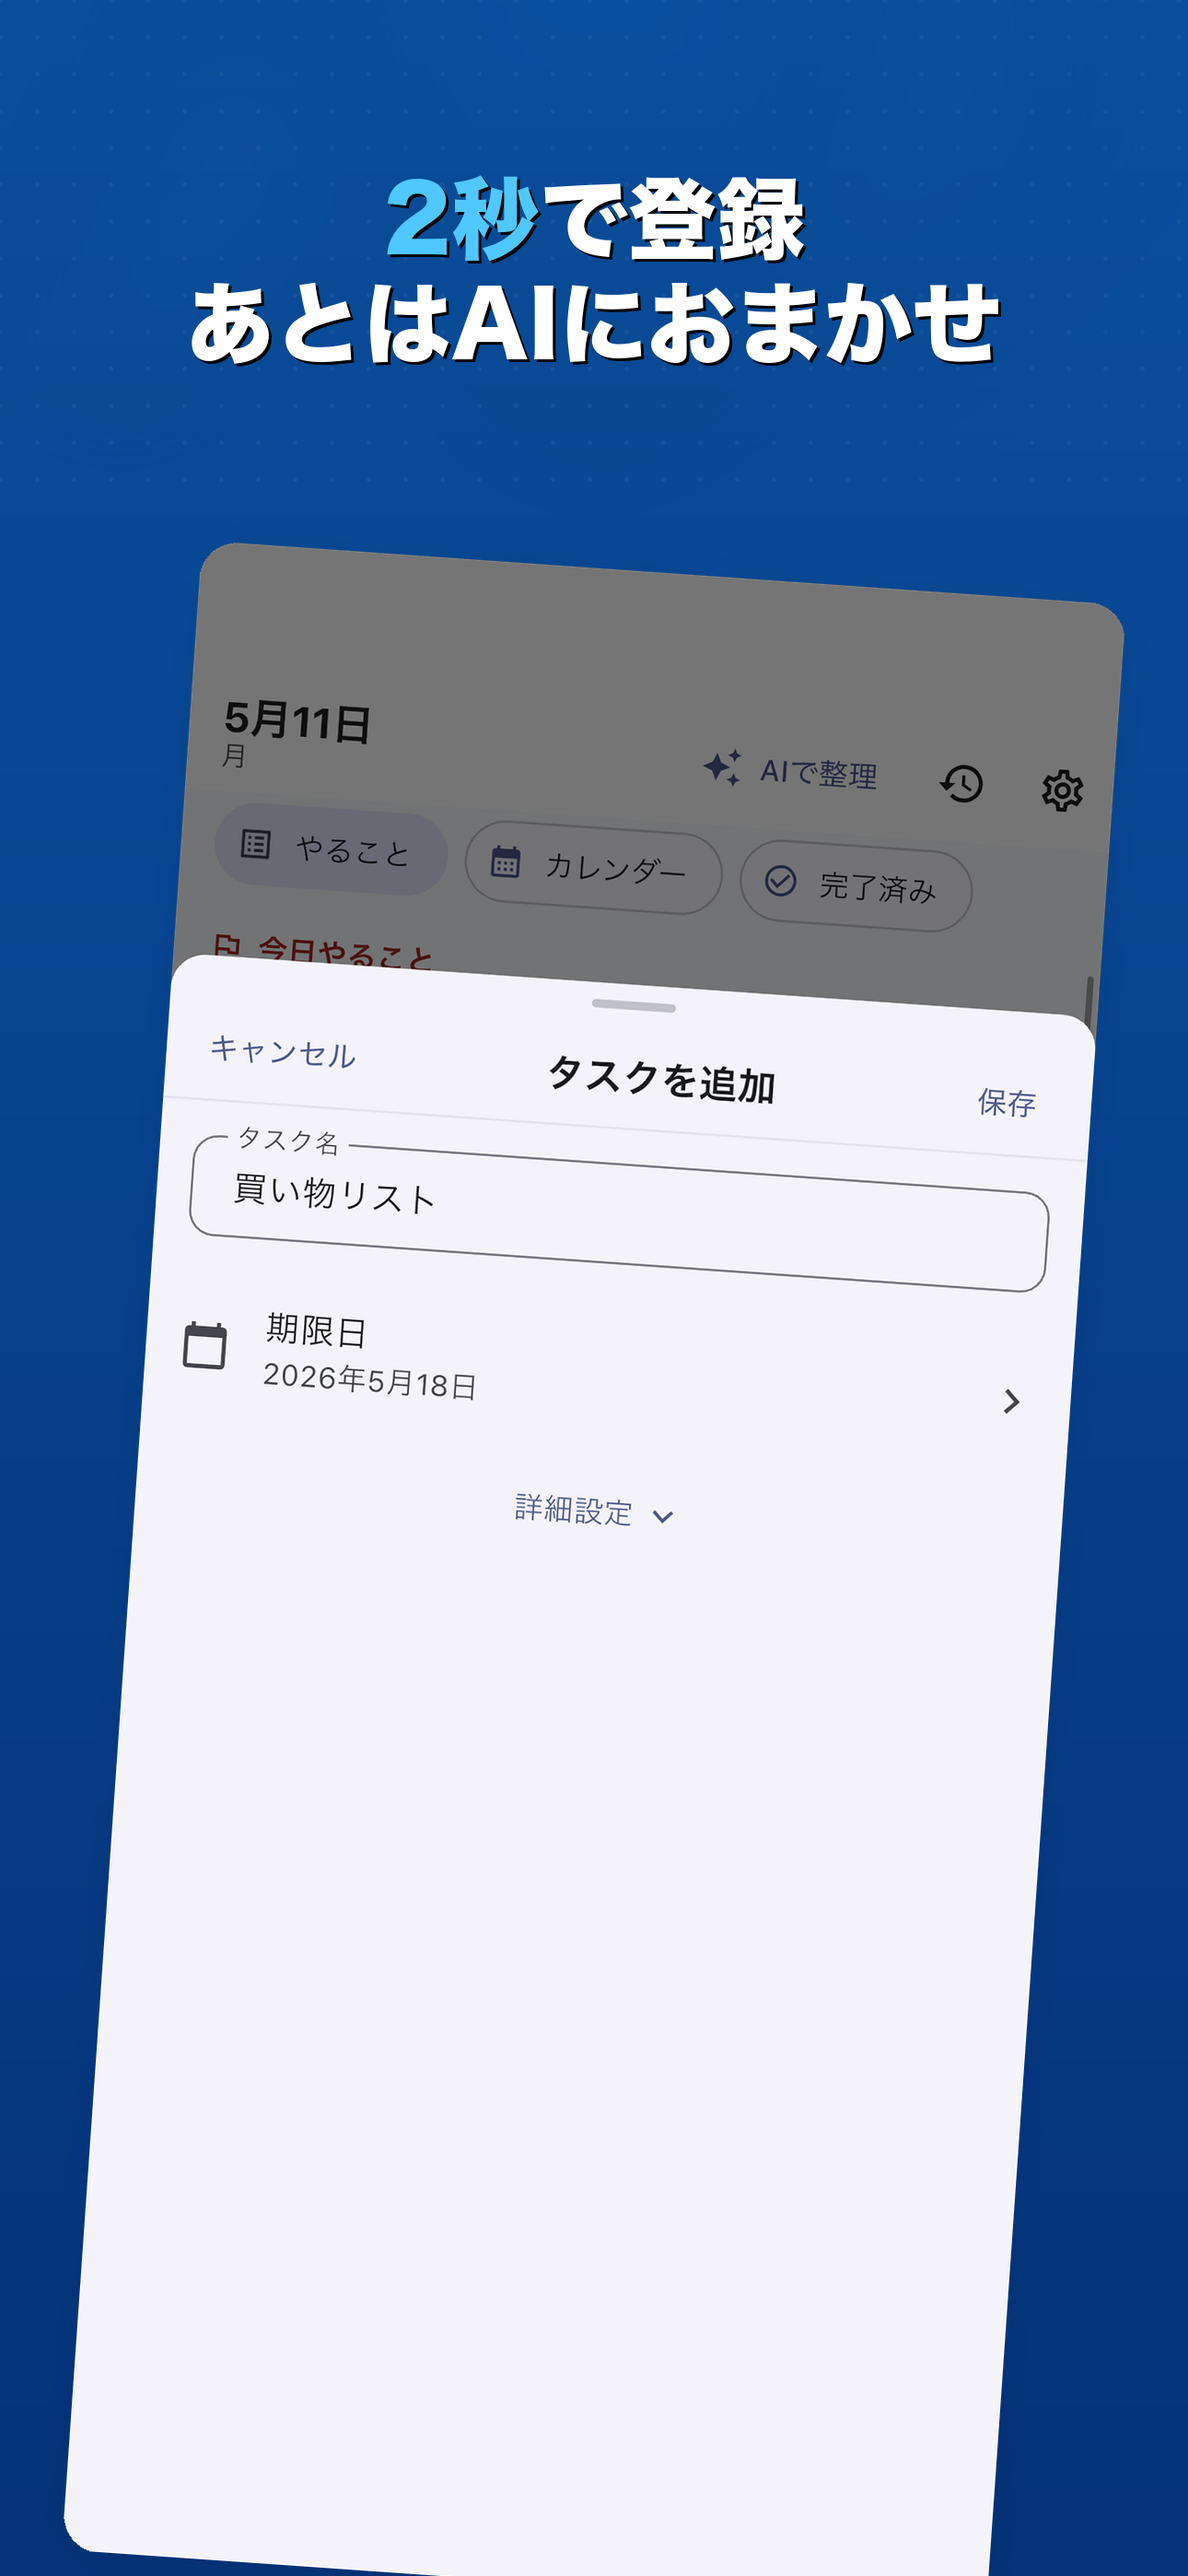
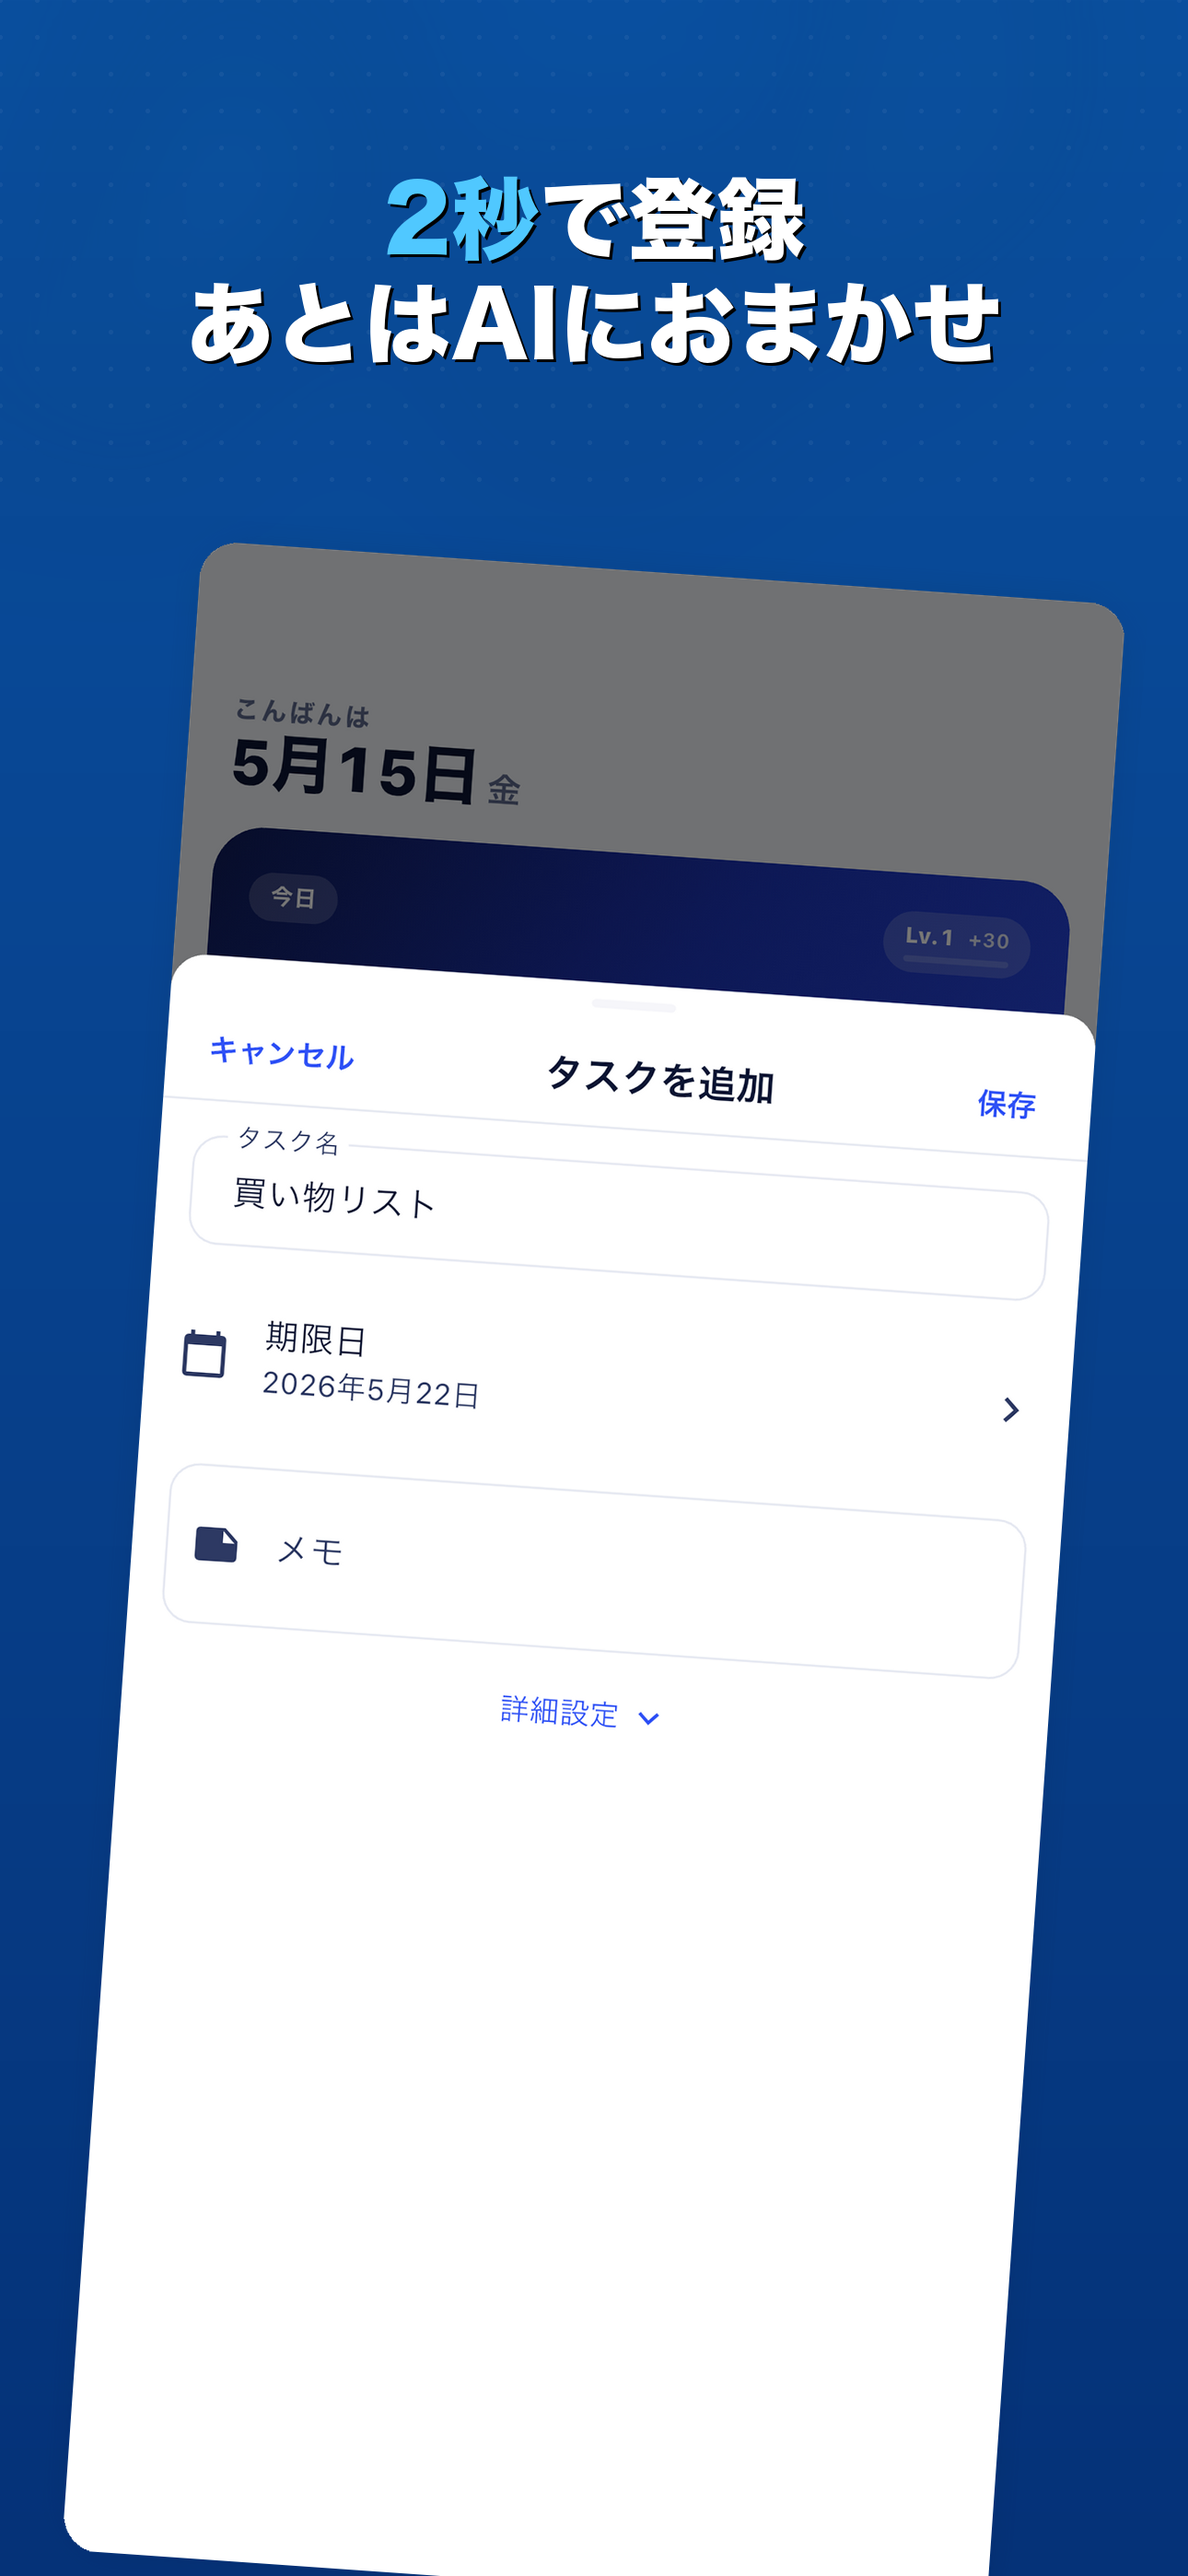
chore(screenshots): 新UIで App Store スクリーンショット再撮影
## 変更点
- integration_test/screenshot_test.dart:
  - 新UIトグル (`use_new_ui_toggle`) の自動 ON 操作を追加
  - v2 設定エントリ (ボトムナビ「設定」) のフォールバック対応
  - 「ホーム」 タブ再選択で IndexedStack の _index=0 リセット
    (設定タブ選択中に GoRouter.go('/home') しても _index が
    3 のまま残り、 ホームではなく設定画面が撮れてしまう問題を修正)
  - ホーム/カレンダー/AI結果画面の v1/v2 両対応文言検出
- lib/screens/v2/onboarding_screen.dart:
  - 「次へ」 ボタンと「スキップ」 ボタンに Key を付与
    (`onboarding_next`, `onboarding_skip`)。 自動テストで
    確実に検出できるようにする。

## 撮影パイプライン
`tool/take_screenshots.sh` (erase → boot → drive → overlay)
を新UIトグルON状態で再実行。

- iPhone 6.7" (1290x2796): 6枚
- iPad Pro 12.9" (2048x2732): 6枚

すべて新UI (v2: ヒーローAIカード / 件数サマリーチップ /
Lv.X +XP 進捗バー / ボトムナビ完全表示) で再撮影済み。
fastlane の入稿用ディレクトリへ展開済み。

diff --git a/integration_test/screenshot_test.dart b/integration_test/screenshot_test.dart
@@ -91,12 +91,26 @@ void main() {
     await tester.pumpAndSettle();
 
     // --- Settings: dev mode + premium + test data ---
+    // v1: AppBar の歯車アイコン (`settings_button`)
+    // v2: ボトムナビ「設定」ラベル (useNewUi デフォルト true なので v2 が初期表示)
     for (var i = 0; i < 30; i++) {
       if (find.byKey(const Key('settings_button')).evaluate().isNotEmpty) break;
+      if (find.text('設定').evaluate().isNotEmpty) break;
       await tester.pump(const Duration(milliseconds: 500));
     }
 
-    await tester.tap(find.byKey(const Key('settings_button')));
+    final settingsBtnV1 = find.byKey(const Key('settings_button'));
+    if (settingsBtnV1.evaluate().isNotEmpty) {
+      await tester.tap(settingsBtnV1);
+    } else {
+      // v2: ボトムナビの「設定」(最後の「設定」 = ボトムナビ)
+      final settingsLabels = find.text('設定');
+      if (settingsLabels.evaluate().isNotEmpty) {
+        await tester.tap(settingsLabels.last, warnIfMissed: false);
+      } else {
+        debugPrint('[SS] WARNING: settings entry not found, skip setup');
+      }
+    }
     await tester.pumpAndSettle(const Duration(seconds: 2));
     debugPrint('[SS] Settings opened');
 
@@ -140,6 +154,27 @@ void main() {
       debugPrint('[SS] WARNING: premium: $e');
     }
 
+    // 新UIトグル ON (App Store スクリーンショットは新UIで撮影)
+    try {
+      final newUiToggle = find.byKey(const Key('use_new_ui_toggle'));
+      await tester.scrollUntilVisible(
+        newUiToggle, 200,
+        scrollable: find.byType(Scrollable).first,
+      );
+      await tester.pumpAndSettle();
+      final sw = find.descendant(
+        of: newUiToggle,
+        matching: find.byType(Switch),
+      );
+      if (sw.evaluate().isNotEmpty && !tester.widget<Switch>(sw).value) {
+        await tester.tap(newUiToggle);
+        await tester.pumpAndSettle(const Duration(seconds: 1));
+        debugPrint('[SS] New UI ON');
+      }
+    } catch (e) {
+      debugPrint('[SS] WARNING: new UI: $e');
+    }
+
     // Insert test data
     try {
       final testDataBtn = find.byKey(const Key('debug_detailed_data'));
@@ -164,8 +199,18 @@ void main() {
     }
 
     // Back to home
+    // v1: GoRouter.go('/home') で十分。
+    // v2: V2HomeShell の IndexedStack は state を保持するため、
+    //     go('/home') だけでは _index が 3 (設定) のまま残る。
+    //     ボトムナビの「ホーム」を再タップして _index=0 にリセット。
     GoRouter.of(tester.element(find.byType(Scaffold).first)).go('/home');
-    await tester.pumpAndSettle(const Duration(seconds: 3));
+    await tester.pumpAndSettle(const Duration(seconds: 2));
+    final homeTabLabel = find.text('ホーム');
+    if (homeTabLabel.evaluate().isNotEmpty) {
+      await tester.tap(homeTabLabel.last, warnIfMissed: false);
+      await tester.pumpAndSettle(const Duration(seconds: 1));
+    }
+    await tester.pumpAndSettle(const Duration(seconds: 1));
     for (var i = 0; i < 20; i++) {
       if (find.byType(Card).evaluate().isNotEmpty) break;
       await tester.pump(const Duration(milliseconds: 500));
@@ -200,8 +245,11 @@ void main() {
     }
 
     // --- Screenshot 2: AI result ---
-    final aiResultTitle = find.textContaining('整理しました');
-    if (aiResultTitle.evaluate().isNotEmpty) {
+    // v1: 「AIが整理しました」 / v2: 「整理完了」 のいずれかが見つかれば結果画面と判定
+    final hasResultScreen =
+        find.textContaining('整理しました').evaluate().isNotEmpty ||
+            find.textContaining('整理完了').evaluate().isNotEmpty;
+    if (hasResultScreen) {
       await takeScreenshot('raw_02_ai_result');
       debugPrint('[SS] raw_02_ai_result');
     } else {
@@ -212,8 +260,14 @@ void main() {
     }
 
     // Go back to home and dismiss any overlays/sheets
+    // v2 では IndexedStack の _index リセットのためボトムナビ「ホーム」も明示タップ
     GoRouter.of(tester.element(find.byType(Scaffold).first)).go('/home');
-    await tester.pumpAndSettle(const Duration(seconds: 3));
+    await tester.pumpAndSettle(const Duration(seconds: 2));
+    final homeTabLabelB = find.text('ホーム');
+    if (homeTabLabelB.evaluate().isNotEmpty) {
+      await tester.tap(homeTabLabelB.last, warnIfMissed: false);
+      await tester.pumpAndSettle(const Duration(seconds: 1));
+    }
     await dismissOverlays(tester);
 
     // --- Screenshot 1: Home (clean, no bottom sheet) ---
@@ -249,7 +303,7 @@ void main() {
     debugPrint('[SS] raw_04_ai_comment');
 
     // --- Screenshot 3: Calendar ---
-    // Tap "カレンダー" text in the filter chips
+    // v1: フィルターchip「カレンダー」 / v2: ボトムナビ「カレンダー」
     final calLabel = find.text('カレンダー');
     if (calLabel.evaluate().isNotEmpty) {
       await tester.tap(calLabel.first, warnIfMissed: false);
@@ -263,16 +317,31 @@ void main() {
     debugPrint('[SS] raw_03_calendar');
 
     // --- Screenshot 5: Simple input (task add form) ---
-    // Switch back to todo tab
-    final todoLabel = find.text('やること');
-    if (todoLabel.evaluate().isNotEmpty) {
-      await tester.tap(todoLabel.first, warnIfMissed: false);
+    // ホームタブに戻る (v1=「やること」 / v2=「ホーム」)
+    var homeLabel = find.text('やること');
+    if (homeLabel.evaluate().isEmpty) homeLabel = find.text('ホーム');
+    if (homeLabel.evaluate().isNotEmpty) {
+      await tester.tap(homeLabel.first, warnIfMissed: false);
       await tester.pumpAndSettle(const Duration(seconds: 1));
     }
 
+    // タスク追加ボタン: v1 = FloatingActionButton / v2 = GlassBottomNav 中央+
+    var taskAddTapped = false;
     final fab = find.byType(FloatingActionButton);
     if (fab.evaluate().isNotEmpty) {
       await tester.tap(fab);
+      taskAddTapped = true;
+    } else {
+      // v2: + アイコンを探す (HeroAiCard 内「+タスクを追加」も candid)
+      final addIcons = find.byIcon(Icons.add_rounded);
+      if (addIcons.evaluate().isNotEmpty) {
+        // 最後のアイコン = ボトムナビ中央+FAB (画面下端)
+        await tester.tap(addIcons.last, warnIfMissed: false);
+        taskAddTapped = true;
+      }
+    }
+
+    if (taskAddTapped) {
       await tester.pumpAndSettle(const Duration(seconds: 1));
 
       // Enter sample text

diff --git a/lib/screens/v2/onboarding_screen.dart b/lib/screens/v2/onboarding_screen.dart
@@ -62,6 +62,7 @@ class _V2OnboardingScreenState extends State<V2OnboardingScreen> {
                 child: Align(
                   alignment: Alignment.centerRight,
                   child: TextButton(
+                    key: const Key('onboarding_skip'),
                     onPressed: _complete,
                     child: Text(
                       l10n.onboardingSkip,
@@ -130,6 +131,7 @@ class _V2OnboardingScreenState extends State<V2OnboardingScreen> {
           const SizedBox(height: 14),
           if (!isLast)
             NeonButton(
+              key: const Key('onboarding_next'),
               label: l10n.onboardingNext,
               trailingIcon: Icons.chevron_right_rounded,
               height: 52,
